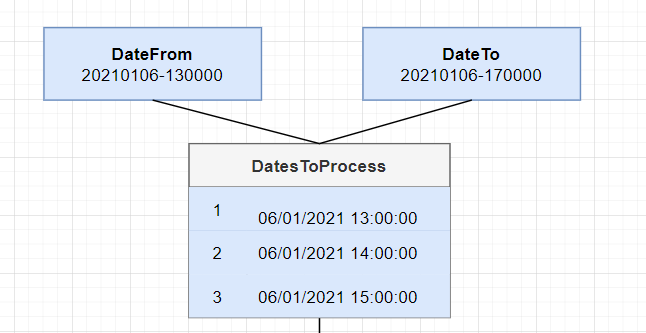
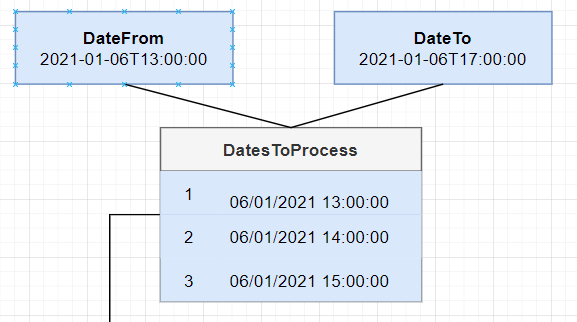
fix: update inputs date format and fix typos in Readme file.
Update from "yyyyMMdd-HH0000" to "yyyy-MM-ddTHH:00:00" except for the
local filesystem path because we had some issues with I/O because of
file naming.

Fix typos in README and of course the new date format.

Changed region(s): [[0.0, 0.0311, 0.9671, 1.0]]

diff --git a/src/pageview-processor/WikipediaDumpsProcessor.cs b/src/pageview-processor/WikipediaDumpsProcessor.cs
@@ -15,7 +15,8 @@ namespace pageview_processor
     public class WikipediaDumpsProcessor
     {
         private const int CAPACITY = 25;
-        internal const string FORMAT = "yyyyMMdd-HH0000";
+        internal const string OLD_FORMAT = "yyyyMMdd-HH0000"; //This format is to avoid issues with names on local filesystem
+        internal const string FORMAT = "yyyy-MM-ddTHH:00:00";
         private const string PATH = "/dumps";
         private readonly ILogger logger;
         private readonly IDumpsCache cache;
@@ -37,14 +38,14 @@ namespace pageview_processor
 
             var stopWatch = new Stopwatch(); stopWatch.Start();
             logger.LogInformation($"Start processing from: {parsedDateFrom.ToString(FORMAT)} to: {parsedDateTo.ToString(FORMAT)} and path: {resultsPath}");
-            if (!blackList.Any()) blackList = await BlackListOfWikipediaDumps.Get(logger, httpClient);
+            if (!blackList.Any()) blackList = await BlackListOfWikipediaDumps.Get(logger, httpClient); //Should we persist blacklist?
 
             this.resultsPath = resultsPath;
             var datesToProcess = new List<DateTime>();
             var datesProcessed = new List<string>();
             for (var date = parsedDateFrom; date <= parsedDateTo; date = date.AddHours(1))
             {
-                if (cache.TryGet(date.ToString(FORMAT), out var path))
+                if (cache.TryGet(date.ToString(OLD_FORMAT), out var path))
                 {
                     logger.LogInformation($"Getting date: {date.ToString(FORMAT)} with path: {path} from cache");
                     datesProcessed.Add(path);
@@ -61,6 +62,8 @@ namespace pageview_processor
             return datesProcessed;
         }
 
+        // MaxDegreeOfParallelism of 3 is because wikipedia dumps server returns a lot of 503 status code
+        // with a high number of concurrent http connections
         internal async Task<IEnumerable<(string localPath, string date)>> Download(List<DateTime> datesToProcess)
         {
             var result = new ConcurrentBag<(string tempPath, string date)>();
@@ -69,9 +72,9 @@ namespace pageview_processor
                 var stopWatch = new Stopwatch(); stopWatch.Start();
                 logger.LogInformation($"Starting the download of date: {date.ToString(FORMAT)}");
 
-                var url = @$"https://dumps.wikimedia.org/other/pageviews/{date.Year}/{date:yyyy-MM}/pageviews-{date.ToString(FORMAT)}.gz";
+                var url = @$"https://dumps.wikimedia.org/other/pageviews/{date.Year}/{date:yyyy-MM}/pageviews-{date.ToString(OLD_FORMAT)}.gz";
                 var response = await httpClient.GetAsync(url, cancellationToken);
-                if (!response.IsSuccessStatusCode) //capture the exception
+                if (!response.IsSuccessStatusCode)
                 {
                     logger.LogError(@$"Error downloading date: {date.ToString(FORMAT)} with status code: {response.StatusCode}");
                     return;
@@ -83,7 +86,7 @@ namespace pageview_processor
                     await using var decompressionStream = new GZipStream(responseContent, CompressionMode.Decompress);//review usings memory
                     decompressionStream.CopyTo(decompressedFileStream);
                 }
-                result.Add((fileToWriteTo, date.ToString(FORMAT)));
+                result.Add((fileToWriteTo, date.ToString(OLD_FORMAT)));
 
                 logger.LogInformation($"Ending the download of date: {date.ToString(FORMAT)} in: {Math.Round(stopWatch.Elapsed.TotalSeconds, 2)} seconds");
             });
@@ -127,6 +130,7 @@ namespace pageview_processor
                     }
                     else
                     {
+                        //Specify capacity to reduce the number of re-allocations
                         sortedValues = new PriorityQueue<string, int>(CAPACITY);
                         sortedValues.Enqueue(title, views);
 
@@ -154,6 +158,8 @@ namespace pageview_processor
                 var queue = result.Value;
                 var domain = result.Key;
 
+                //TODO: We need to address the invert of the whole priority queue problem 
+                //This is done to get the results in descending order
                 var stack = new Stack<string>();
                 while (queue.TryDequeue(out string item, out int priority)) stack.Push($"{domain} {item} {priority}");
                 foreach (var item in stack) stringbuilder.AppendLine(item);

diff --git a/src/pageview-processor-tests/WikipediaDumpsProcessorTests.cs b/src/pageview-processor-tests/WikipediaDumpsProcessorTests.cs
@@ -31,11 +31,11 @@ namespace pageview_processor_tests
         [TestMethod]
         public async Task cache_correctly()//do we need cache flush?
         {
-            await processor.ProcessAndGetResultsFilePath("20200203-010000", "20200203-020000");
+            await processor.ProcessAndGetResultsFilePath("2020-02-03T01:00:00", "2020-02-03T02:00:00");
 
             cache.TryGet("20200203-010000", out var _).Should().BeTrue();
 
-            await processor.ProcessAndGetResultsFilePath("20200203-010000", "20200203-020000");
+            await processor.ProcessAndGetResultsFilePath("2020-02-03T01:00:00", "2020-02-03T02:00:00");
         }
 
         [TestMethod]
@@ -107,9 +107,9 @@ namespace pageview_processor_tests
             downloadPaths.Should().HaveSameCount(resultsPath);
 
             var firstFile = resultsPath
-                .First(x => Path.GetFileName(x) == dates[0].ToString(WikipediaDumpsProcessor.FORMAT));
+                .First(x => Path.GetFileName(x) == dates[0].ToString(WikipediaDumpsProcessor.OLD_FORMAT));
             var secondFile = resultsPath
-               .First(x => Path.GetFileName(x) == dates[1].ToString(WikipediaDumpsProcessor.FORMAT));
+               .First(x => Path.GetFileName(x) == dates[1].ToString(WikipediaDumpsProcessor.OLD_FORMAT));
 
             CheckFirstTwoLinesByFilePath(firstFile, "aa Wikipedia:Community_Portal 3", "aa Main_Page 2");
             CheckFirstTwoLinesByFilePath(secondFile, "aa Main_Page 17", "aa Special:CiteThisPage 2");

diff --git a/src/pageview-processor/BlackListOfWikipediaDumps.cs b/src/pageview-processor/BlackListOfWikipediaDumps.cs
@@ -14,6 +14,7 @@ namespace pageview_processor
             logger.LogInformation("Initializing blacklist");
             var response = await httpClient.GetAsync(@"https://s3.amazonaws.com/dd-interview-data/data_engineer/wikipedia/blacklist_domains_and_pages");
             if (!response.IsSuccessStatusCode) throw new Exception($"Error initializing blacklist: {await response.Content.ReadAsStringAsync()}");
+            logger.LogInformation("Blacklist initialization ended");
 
             return Process(await response.Content.ReadAsStringAsync());
         }

diff --git a/src/pageview-processor-tests/DatesValidatorTests.cs b/src/pageview-processor-tests/DatesValidatorTests.cs
@@ -12,7 +12,7 @@ namespace pageview_processor_tests
         public void fail_with_bad_dates()
         {
             (bool isValid, _, _) = DatesValidator.ValidateAndGet(
-                WikipediaDumpsProcessor.FORMAT, "20202020-000000", "20202120-000000");
+                WikipediaDumpsProcessor.FORMAT, "2020-20-27T00:00:00", "2020-21-27T00:00:00");
             isValid.Should().BeFalse();
         }
 

diff --git a/README.md b/README.md
@@ -1,6 +1,6 @@
 # wikipedia pageviews
 
-The project show the top 25 pages on Wikipedia for each of the Wikipedia sub-domains.
+The project shows the top 25 pages on Wikipedia for each of the Wikipedia sub-domains.
 ## Usage
 1. Clone the repo
    ```sh
@@ -12,14 +12,14 @@ The project show the top 25 pages on Wikipedia for each of the Wikipedia sub-dom
    ```
 3. Map the volumes and run with dateFrom and dateTo options
    ```sh
-   docker run --rm -v your-path:/app/cache -v your-other-path:/dumps wikidumps -df 20200101-000000 -dt 20200101-010000
+   docker run --rm -v your-path:/app/cache -v your-other-path:/dumps wikidumps -df 2020-01-01T00:00:00 -dt 2020-01-01T01:00:00
    ```
 ## Design
-The image above describe the process starting with none, one, or two inputs representing the range (from one date to another date). The image above shows the range between two dates ('DateFrom' - 'DateTo') and 'DatesToProcess' table represents a collection of parsed dates from string to date type.
+The image above describes the process starting with none, one, or two inputs representing the range (from one date to another date). The image above shows the range between two dates ('DateFrom' - 'DateTo') and the 'DatesToProcess' table represents a collection of parsed dates from string to date type.
 
 ![input](https://github.com/andresrsanchez/wikipedia-pageview/blob/main/images/input.PNG?raw=true)
 
-The first thing to do is asking the cache (implemented with SQLite) if it contains the date, if the answser is yes then return the local path associated with this date, otherwise we will proceed to download and process the file of wikipedia pageviews. The download is executed in parallel with a maximum degree of parallelism of **three**, but because with a higher parallelism number we had issues with https://dumps.wikimedia.org/, receiving a lot of **503** responses status code so we need to test it more.
+The first thing to do is ask the cache (implemented with SQLite) if it contains the date, if the answer is yes then return the local path associated with this date, otherwise we will proceed to download and process the file of wikipedia pageviews. The download is executed in parallel with a maximum degree of parallelism of **three**, but because with a higher parallelism number we had issues with https://dumps.wikimedia.org/, receiving a lot of **503** responses status code so we need to test it more.
 
 The download files are being saved without deleting them so select big sets of files carefully.
 
@@ -31,21 +31,21 @@ So now we are going to talk about the processing of files, the goal is to get th
 
 - SortedList/Treeset: We need a custom comparer to get titles in descending order and allow duplicate keys because the key is the number of page views. This custom comparer breaks 'Remove' and 'IndexOfkey' methods.
 - SortedDictionary/Treemap: This structure makes no sense because the key needs to be the title not page views, and we need ordering by the last one.
-- List: A simple list with (title, pageviews) item values, but in these case we need to maintain the list ordered ourselves and this is highly inneficient.
+- List: A simple list with (title, pageviews) item values, but in this case we need to maintain the list ordered ourselves and this is highly inefficient.
 
-The lack of conviction with this data structure come from the needed of a copy to **invert** the whole priority queue to get it on descending order. Yes, we can make a custom comparator to get it automatically in descending order but we need to mantain the collection with **25** elements, so we need access to the **tail** to know whether to delete it or not.
+The lack of conviction with this data structure come from the needed of a copy to **invert** the whole priority queue to get it in descending order. Yes, we can make a custom comparator to get it automatically in descending order but we need to maintain the collection with **25** elements, so we need access to the **tail** to know whether to delete it or not.
 
 ![maindata](https://github.com/andresrsanchez/wikipedia-pageview/blob/main/images/maindata.PNG?raw=true)
 
 Another data structure holds the blacklist in-memory, we made this with a dictionary to group each domain by key and
-a hashet that contains the titles. We don't need something like a dictionary/hashmap because we don't have the page views by title in this file.
+a hashset that contains the titles. We don't need something like a dictionary/hashmap because we don't have the page views by title in this file.
 
-When we get the top 25 we persist it in filesystem and we return the collection of local paths with the results.
+When we get the top 25 we persist it in the filesystem and we return the collection of local paths with the results.
 
 ![return](https://github.com/andresrsanchez/wikipedia-pageview/blob/main/images/return.PNG?raw=true)
 
 ### Observability
-We implement Application Insights (Azure monitor) because we already have account on Azure and implement on a .NET App takes literally 5 min. On the submitted app the key is not commited, we can see some results on the image above:
+We implement Application Insights (Azure monitor) because we already have an account on Azure and implementing it on a .NET App takes literally 5 min. On the submitted app the key is not commited, we can see some results on the image above:
 
 ![insights](https://github.com/andresrsanchez/wikipedia-pageview/blob/main/images/insights.PNG?raw=true)
 
@@ -53,42 +53,42 @@ We implement Application Insights (Azure monitor) because we already have accoun
 ## Questions
 ### What additional things would you want to operate this application in a production setting?
 
-Before going to a production environment i think that we need to know <u>the type of workloads that we are going to support</u> and what are the requirements in terms of performance and scalability. We think that the solution should not be the same if we have a daily workload or a yearly workload and we assume that we care about the resources that are being used.
-Having said this, the first thing i would worry about is the **observability** because the solution only contains console logs and a very basic monitoring, with this we cannot move to production because we need more information about how my application is doing.
+Before going to a production environment I think that we need to know <u>the type of workloads that we are going to support</u> and what are the requirements in terms of performance and scalability. We think that the solution should not be the same if we have a daily workload or a yearly workload and we assume that we care about the resources that are being used.
+
+Having said this, the first thing i would worry about is the **observability** because the solution only contains console logs and very basic monitoring, with this we cannot move to production because we need more information about how my application is doing.
+
 Another thing is the automatic retries on HTTP exceptions, now if the dumps server fails we capture the exception and that's it, maybe we can throw the exception and rely on the host and it's built-in retries strategy (like Azure Functions).
 
 ### What might change about your solution if this application needed to run automatically for each hour of the day?
 
 - I would remove the parallel execution because we don't need it, we only have one to download one file per execution. 
-- I would change the host because currently is a console app and we need some sort of automatic triggering so at this point we must know where are my app going to run, if the answer is the cloud we can implement an AWS Lambda/Azure function with a timer trigger but the ideal scenario for us would be a custom event based on a hook each time wikipedia upload a dump, but i think that this is not implemented on the server side. Otherwise if the anwser is on prem we can implement this with a service and a cron job, that triggers the application each hour.
+- I would change the host because currently is a console app and we need some sort of automatic triggering so at this point we must know where are my app going to run, if the answer is the cloud we can implement an AWS Lambda/Azure function with a timer trigger but the ideal scenario for us would be a custom event based on a hook each time wikipedia upload a dump, but i think that this is not implemented on the server side. Otherwise if the answer is on prem we can implement this with a service and a cron job, that triggers the application each hour.
 
-    - In Windows the cron job is already implemented it on the service installation.
+    - In Windows the cron job is already implemented on the service installation.
     - In Linux we can use systemd and cron jobs.
+
 
 ### How would you test this application?
 
 Depends on the requirements for the application.
 
-- We care about performance/scalability: In .NET we can implement performance tests with [BenchmarkDotnet](https://github.com/dotnet/BenchmarkDotNet) and the testing we must involve yearly workloads to check CPU, memory and disk I/O.
+- We care about performance/scalability: In .NET we can implement performance tests with [BenchmarkDotnet](https://github.com/dotnet/BenchmarkDotNet) and the testing must involve yearly workloads to check CPU, memory and disk I/O.
 - We care about resilience: We would provoke all types of exceptions to test host resilience, these types of tests must be done in a dev environment (or local emulators but i wouldn't do that) to check error handling and possible automatic retries that are already implemented on the host (AWS Lambda for example).
-- We care a little bit about all: I would implement a good set of tests with a monthly workload in a local environment and then i would test in a dev environment with a higher workload keeping an eye on the observability side. In local for example running from 20200101-000000 to 20200102-000000 and in dev from 20200101-000000 to 20210101-000000 and check the obtained metrics.
+- We care a little bit about all: I would implement a good set of tests with a monthly workload in a local environment and then I would test in a dev environment with a higher workload keeping an eye on the observability side. In local for example running from 2020-01-01T00:00:00 to 2020-01-02T00:00:00 and in dev from 2020-01-01T00:00:00 to 2020-02-01T00:00:00 and check the obtained metrics.
 
-### How you’d improve on this application design?
-- Implement a CD pipeline.
+### How you'd improve on this application design?
+- Implement a CD pipeline and improve the actual CI.
 - Implement a graceful shutdown of the console project.
-- Improve the value's data structure of the dictionary that holds the titles with it's pageviews, we cannot afford the invert of the whole priority queue to get the correct ordering (descending).
+- Improve the value's data structure of the dictionary that holds the titles with it's pageviews, we cannot afford to invert the whole priority queue to get the correct ordering (descending).
 - If we care a lot about scalability: 
-    - Remove the in-process paralell processing.
+    - Remove the in-process parallel processing.
     - Do load testing against wikipedia's dumps server with JMeter for example, we need to know if the download part is the bottleneck on a producer/consumer app design.
     - Implement a producer/consumer architecture separating downloads and file processing. For example if the company already have implemented Kubernetes we can complicate everything with [this solution](https://kubernetes.io/docs/tasks/job/fine-parallel-processing-work-queue/), but we need some powerful nodes with good I/O.
     - Test our limits with the servers we would have in terms of memory and especially disk I/O because **we depend a lot (too much) on the filesystem**.
     - Replace SQLite with Redis for the caching side and address the persistence problem because this cache does not have TTL.
-- If we don't want the producer/consumer solution another simple solution involves sequential processing and async streams, iterating through the collection of dates and processing them as soon as the download finish. **The actual solution is not efficient because the processing from the download stage to the sort stage is sequential**. 
+- If we don't want the producer/consumer solution another simple solution involves sequential processing and async streams, iterating through the collection of dates and processing them as soon as the download finishes. **The actual solution is not efficient because the processing from the download stage to the sort stage is sequential**. 
 - Implement a web app or an api to operate the application more easily.
 - Improve (a lot) the observability side with a good set of metrics, traces and logs.
-
-
-
 
 
 
